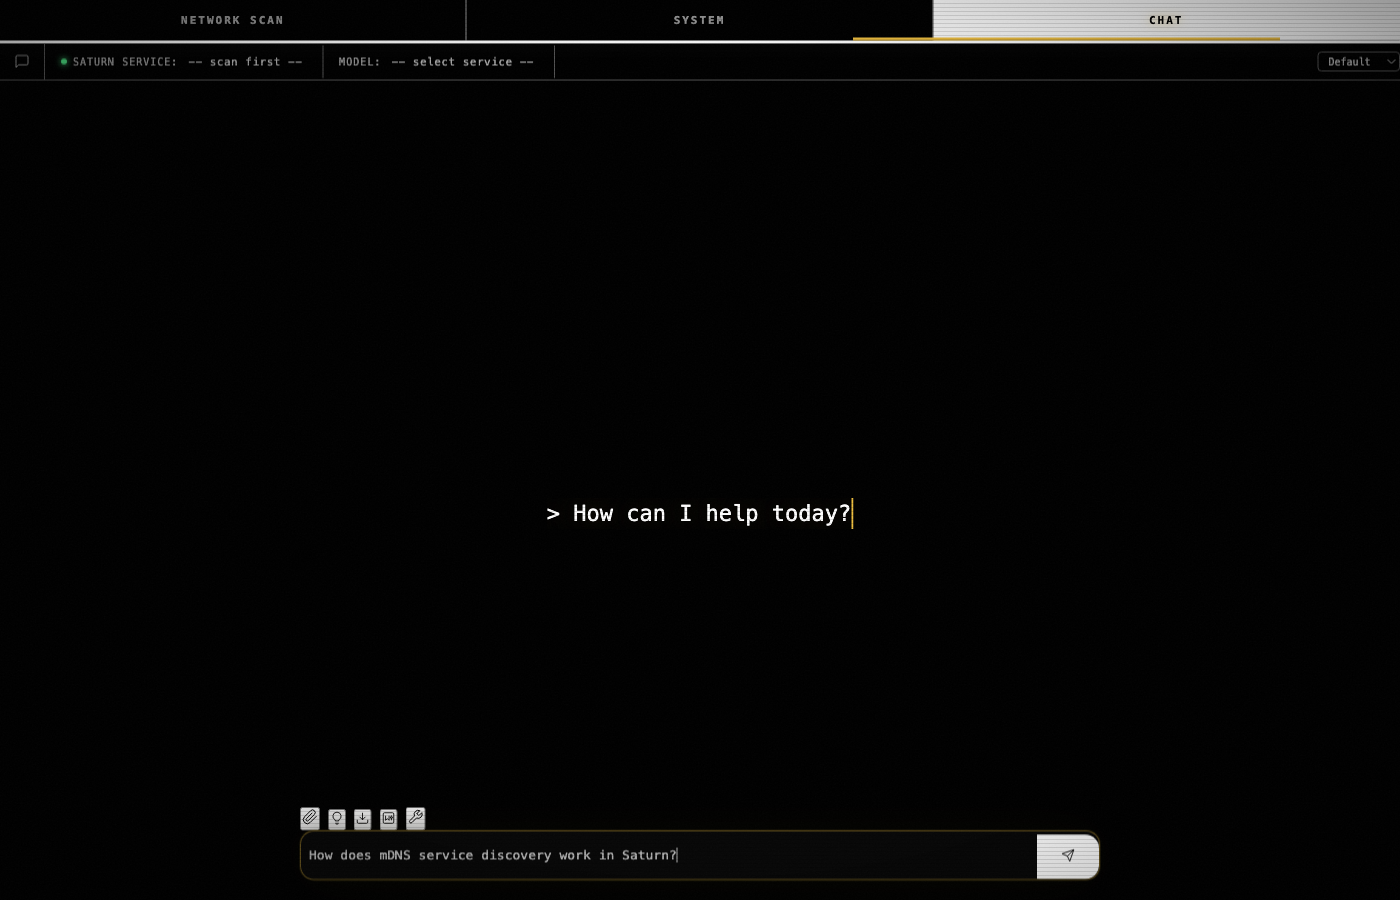
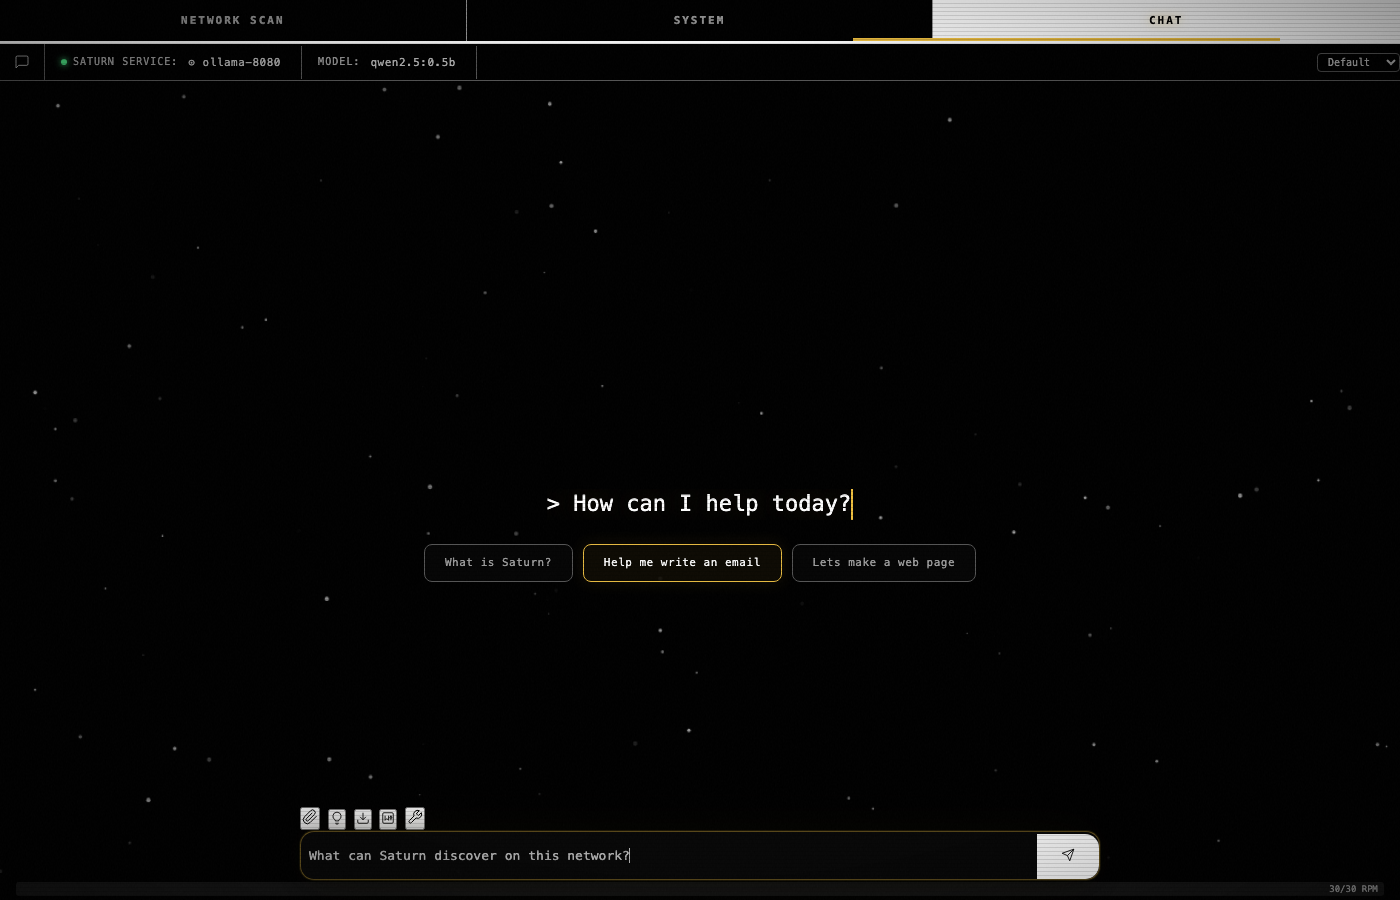
demo: retake Web UI screenshots without DevTools workarounds
Hardener's fixes (24da632 advanced-toggle guard, 1d17d7b chat-accept
handler) make the click-driven flows actually work. Re-shot all four
targets from real interactions: #discover-btn populates services list,
#chat-accept dismisses the gate, [data-subtab] buttons switch System
panels. README rewritten to drop the stale workaround caveats.

diff --git a/demo/screenshots/README.md b/demo/screenshots/README.md
@@ -1,18 +1,18 @@
 # Web UI screenshots
 
-Captured against `saturn web --port 3030` (commit `c4610a6`+) with a
-local `saturn ollama` proxy advertised on the same network. Browser
-unlocked with the default admin password (`saturn`). All shots are
-1400×900 from a headless Chrome via `rodney`.
+Captured against `saturn web --port 3030` with a local `saturn run ollama`
+proxy advertised on the same network. Browser unlocked with the default
+admin password (`saturn`). All shots are 1400×900 from headless Chrome
+via `rodney`.
 
 - **`01-discover.png`** — *Network Scan* tab. Left pane shows the
   Saturn 3D scene; right pane shows the discovered service
-  `ollama-8080 @ joeyair.local:8080` (status online, priority 50)
-  and the configured-services list with start/stop controls.
+  `ollama-8080` (status online) and the configured-services list with
+  start/stop controls.
 - **`02-chat.png`** — *Chat* tab past the experimental-feature gate.
-  Service and model selectors at the top, the chat shell with the
-  initial "How can I help today?" prompt, and a user message typed
-  into the input bar ready to send.
+  Service and model selectors at the top (`⊙ ollama-8080` /
+  `qwen2.5:0.5b`), the chat shell with the initial "How can I help
+  today?" prompt, and a sample user message in the input bar.
 - **`03-system-status.png`** — *System → Status* sub-tab. Universe
   Health lists `ollama-8080 [ok]`; Routing Activity and Usage Today
   panels are empty because no proxied requests have been made yet
@@ -22,30 +22,26 @@ unlocked with the default admin password (`saturn`). All shots are
   OpenClaw, Generic — the supported integrations for pointing
   third-party tools at a Saturn-discovered backend.
 
-## Caveats and known issues
-
-- The Discover tab's `#discover-btn` click handler (Web-UI/app.js:870)
-  hangs on `syncServices()` due to a `serviceSelect` TDZ error after
-  the hardener's ES-module migration. Worked around for the screenshot
-  by injecting the `/api/discover` JSON straight into the
-  `#services-list` DOM. The service shown is real, the rendering path
-  is the production CSS, but the click-driven flow needs a follow-up
-  fix. (See bd `Saturn-kul` thread.)
-- The chat experimental-feature gate (`#chat-accept` button in
-  `Web-UI/index.html:253`) has no JS handler bound, so it can't be
-  dismissed by clicking. Shot taken after manually hiding `#chat-gate`
-  and removing `hidden` from `#chat-shell`.
-- The System sub-tab buttons (`[data-subtab=...]`) also don't switch
-  panels via click; activated manually for `03` and `04`.
-
 ## Re-shoot
 
 ```sh
 saturn web --port 3030 &
-saturn ollama &
+saturn run ollama &
 rodney start
 rodney open http://127.0.0.1:3030/
-# unlock with default password 'saturn' (or set SATURN_ADMIN_PASSWORD)
-# until the click-handler bugs above are fixed, use the JS workarounds
-# documented in this file.
+# unlock admin
+rodney input '#admin-pw' saturn && rodney click '#admin-pw-submit'
+# 01 discover
+rodney click '#discover-btn' && rodney sleep 6
+rodney screenshot -w 1400 -h 900 demo/screenshots/01-discover.png
+# 02 chat
+rodney click '[data-tab=chat]' && rodney click '#chat-accept'
+rodney input '#chat-input' 'What can Saturn discover on this network?'
+rodney screenshot -w 1400 -h 900 demo/screenshots/02-chat.png
+# 03 system status
+rodney click '[data-tab=system]' && rodney click '[data-subtab=status]'
+rodney screenshot -w 1400 -h 900 demo/screenshots/03-system-status.png
+# 04 system integrate
+rodney click '[data-subtab=integrate]'
+rodney screenshot -w 1400 -h 900 demo/screenshots/04-system-integrate.png
 ```
